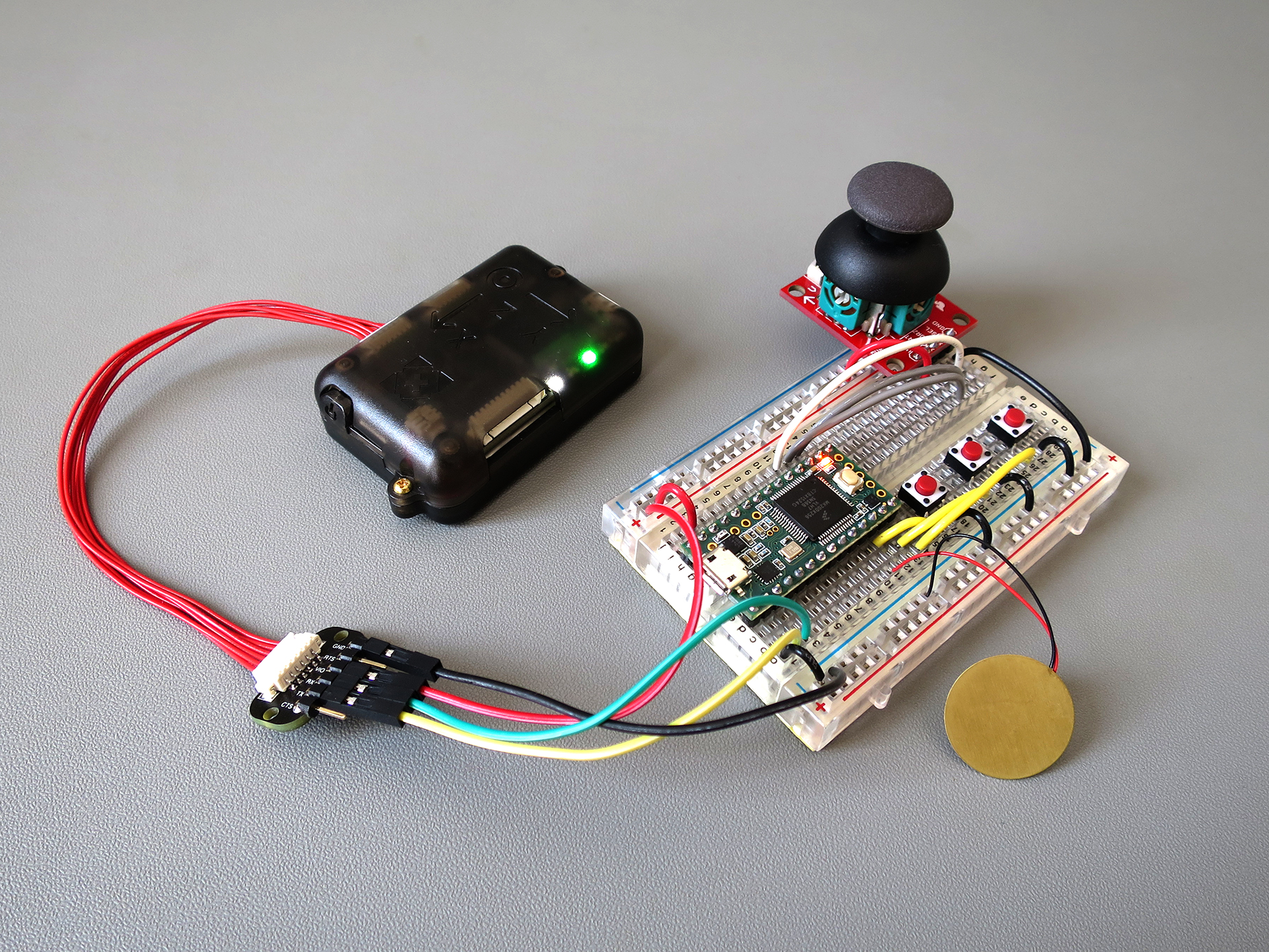
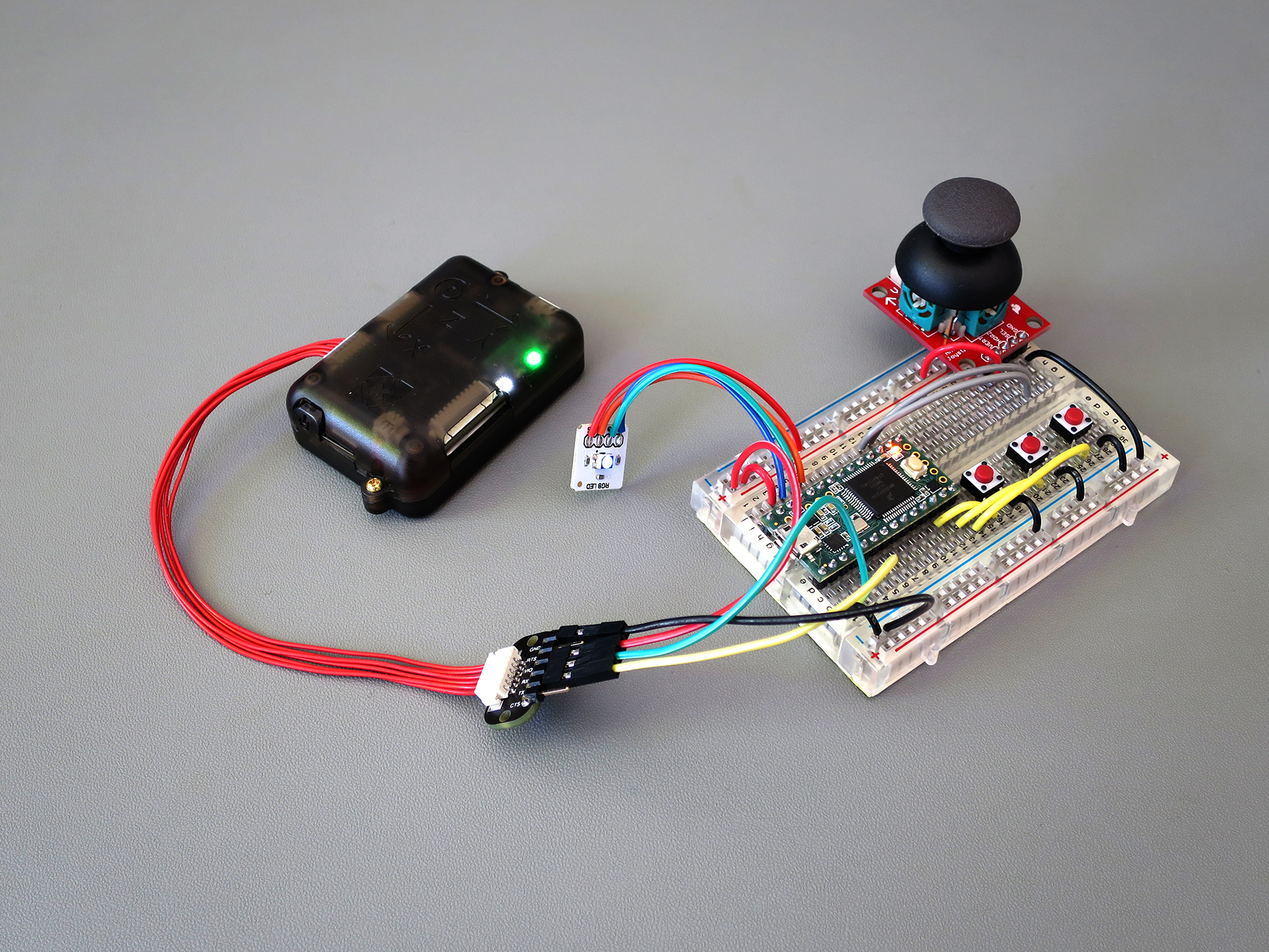
Update README and photo

diff --git a/README.md b/README.md
@@ -1,14 +1,13 @@
 NGIMU-Teensy-IO-Expansion-Example
 =================================
 
-This is an example project demonstrating how a Teensy can be used with the NGIMU auxiliary serial in *OSC passthrough* mode to send/receive custom OSC messages to provide access to the Teensy I/O and peripherals through the NGIMU.  OSC messages generated by the Teensy are forwarded by the NGIMU to the host alongside it's own OSC messages; and OSC messages sent by the host to the NGIMU that are not recognised are forwarded to the Teensy.  The example setup uses a [Teensy 3.2](https://www.pjrc.com/store/teensy32.html), an [analogue joystick](https://www.sparkfun.com/products/9032), 3 [push buttons](http://www.mouser.co.uk/search/ProductDetail.aspx?R=0virtualkey0virtualkeyFSM4JAH), and [piezo transducer](https://www.sparkfun.com/products/10293).
+This is an example project demonstrating how a Teensy can be used with the NGIMU auxiliary serial in *OSC passthrough* mode to send/receive custom OSC messages to provide access to the Teensy I/O and peripherals through the NGIMU.  OSC messages generated by the Teensy are forwarded by the NGIMU to the host alongside it's own OSC messages; and OSC messages sent by the host to the NGIMU that are not recognised are forwarded to the Teensy.  The example setup uses a [Teensy 3.2](https://www.pjrc.com/store/teensy32.html), an [analogue joystick](https://www.sparkfun.com/products/9032), 3 [push buttons](http://www.mouser.co.uk/search/ProductDetail.aspx?R=0virtualkey0virtualkeyFSM4JAH), and an [RGB LED](http://www.robotshop.com/en/rgb-led-breakout.html).
 
 This example is intended to serve as a template for user projects.  In most cases, only the `Receive.cpp` and `Send.cpp` files need to be modified.  The auxiliary serial baud rate can be increased in the NGIMU settings and `setup()` function in the `NGIMU-Teensy-IO-Expansion-Example.ino` to achieve higher throughput and lower latency.
 
 OSC messages sent by the Teensy
 -------------------------------
 * `/teensy/joystick/xy` - Contains the analogue joystick x and y values.  Sent continuously at 10 Hz.
-* `/teensy/joystick/button` - Contains no arguments.  Sent each time the joystick button is pressed.
 * `/teensy/counter` - Contains a counter value that increments each time the message is sent.  Sent continuously at 1 Hz.
 * `/teensy/button/a` - Contains no arguments.  Sent each time button A is pressed.
 * `/teensy/button/b` - Contains no arguments.  Sent each time button B is pressed.
@@ -18,7 +17,7 @@ OSC messages sent by the Teensy
 OSC messages received by the Teensy
 -----------------------------------
 * `/teensy/led` - Contains one value to turn the Teensy on-board LED on/off.
-* `/teensy/tone` - Contains one value to set the frequency the piezo transducer
+* `/teensy/rgb` - Contains three values to set the red, green, blue brightness of the RGB LED (0 to 257 = brightest to off)
 
 Teensy board connections
 ------------------------
@@ -26,12 +25,13 @@ Teensy board connections
 * GND - NGIMU auxiliary serial interface ground
 * RX1 - NGIMU auxiliary serial interface TX
 * TX1 - NGIMU auxiliary serial interface RX
-* 9 - Piezo transducer
 * 10 - Button A
 * 11 - Button B
 * 12 - Button C
 * A0 - Joystick HORZ
 * A1 - Joystick VERT
-* 16 - Joystick SEL
+* 21 - RGB LED red cathode
+* 22 - RGB LED geeen cathode
+* 23 - RGB LED blue cathode
 
 ![](https://github.com/xioTechnologies/NGIMU-Teensy-IO-Expansion-Example/blob/master/Example%20Setup.jpg)
